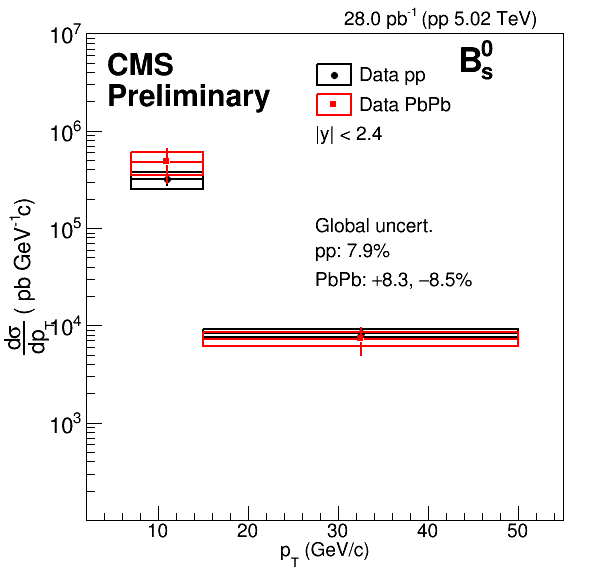
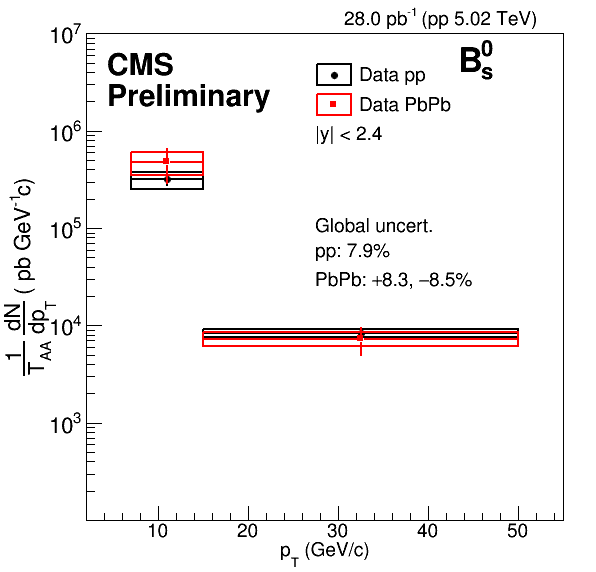
update

Changed region(s): [[0.0, 0.2972, 0.0906, 0.6538]]

diff --git a/CrossSection/plotCrossSection/plotCrossSection/canvasSigmaBplusRatiopp_AddPbPb.C b/CrossSection/plotCrossSection/plotCrossSection/canvasSigmaBplusRatiopp_AddPbPb.C
@@ -1,7 +1,7 @@
 void canvasSigmaBplusRatiopp_AddPbPb()
 {
 //=========Macro generated from canvas: cSigma/
-//=========  (Fri Apr 20 16:36:52 2018) by ROOT version6.02/13
+//=========  (Tue Apr 24 14:20:37 2018) by ROOT version6.02/13
    TCanvas *cSigma = new TCanvas("cSigma", "",0,0,600,600);
    gStyle->SetOptStat(0);
    gStyle->SetOptTitle(0);
@@ -34,7 +34,7 @@ void canvasSigmaBplusRatiopp_AddPbPb()
    hemptySigma1->GetXaxis()->SetLabelSize(0.036);
    hemptySigma1->GetXaxis()->SetTitleSize(0.036);
    hemptySigma1->GetXaxis()->SetTitleFont(42);
-   hemptySigma1->GetYaxis()->SetTitle("#frac{d#sigma}{dp_{T}} ( pb GeV^{-1}c)");
+   hemptySigma1->GetYaxis()->SetTitle("#frac{1}{T_{AA}} #frac{dN}{dp_{T}} ( pb GeV^{-1}c)");
    hemptySigma1->GetYaxis()->CenterTitle(true);
    hemptySigma1->GetYaxis()->SetLabelFont(42);
    hemptySigma1->GetYaxis()->SetLabelSize(0.042);

diff --git a/CrossSection/CrossSectionRatio.C b/CrossSection/CrossSectionRatio.C
@@ -258,7 +258,8 @@ void CrossSectionRatio(TString inputFONLL="ROOTfiles/output_inclusiveDd0meson_5T
 		leg_CS->AddEntry(hPtSigma_PbPb,"Data PbPb","pf");
 		if(plotFONLL) leg_CS->AddEntry(gaeBplusReference,"FONLL pp ref.","f");//PAS
 		leg_CS->Draw("same");
-		hemptySigma->GetYaxis()->SetTitle("#frac{d#sigma}{dp_{T}} ( pb GeV^{-1}c)");
+		//hemptySigma->GetYaxis()->SetTitle("#frac{d#sigma}{dp_{T}} ( pb GeV^{-1}c)");
+		hemptySigma->GetYaxis()->SetTitle("#frac{1}{T_{AA}} #frac{dN}{dp_{T}} ( pb GeV^{-1}c)");
 		texGlobal = new TLatex(0.53,0.594,Form("Global uncert."));
 		TLatex* texGlobal_pp = new TLatex(0.53,0.55,Form("pp: %.1f%s",normalizationUncertaintyForPP(),texper.Data()));
 		TLatex* texGlobal_PbPb = new TLatex(0.53,0.50,Form("PbPb: #plus%.1f, #minus%.1f%s",normalizationUncertaintyForPbPb(1),normalizationUncertaintyForPbPb(0),texper.Data()));

diff --git a/CrossSection/plotCrossSection/plotCrossSection/canvasSigmaBplusRatiopp.C b/CrossSection/plotCrossSection/plotCrossSection/canvasSigmaBplusRatiopp.C
@@ -1,7 +1,7 @@
 void canvasSigmaBplusRatiopp()
 {
 //=========Macro generated from canvas: cSigma/
-//=========  (Fri Apr 20 16:36:51 2018) by ROOT version6.02/13
+//=========  (Tue Apr 24 14:20:36 2018) by ROOT version6.02/13
    TCanvas *cSigma = new TCanvas("cSigma", "",0,0,600,600);
    gStyle->SetOptStat(0);
    gStyle->SetOptTitle(0);
